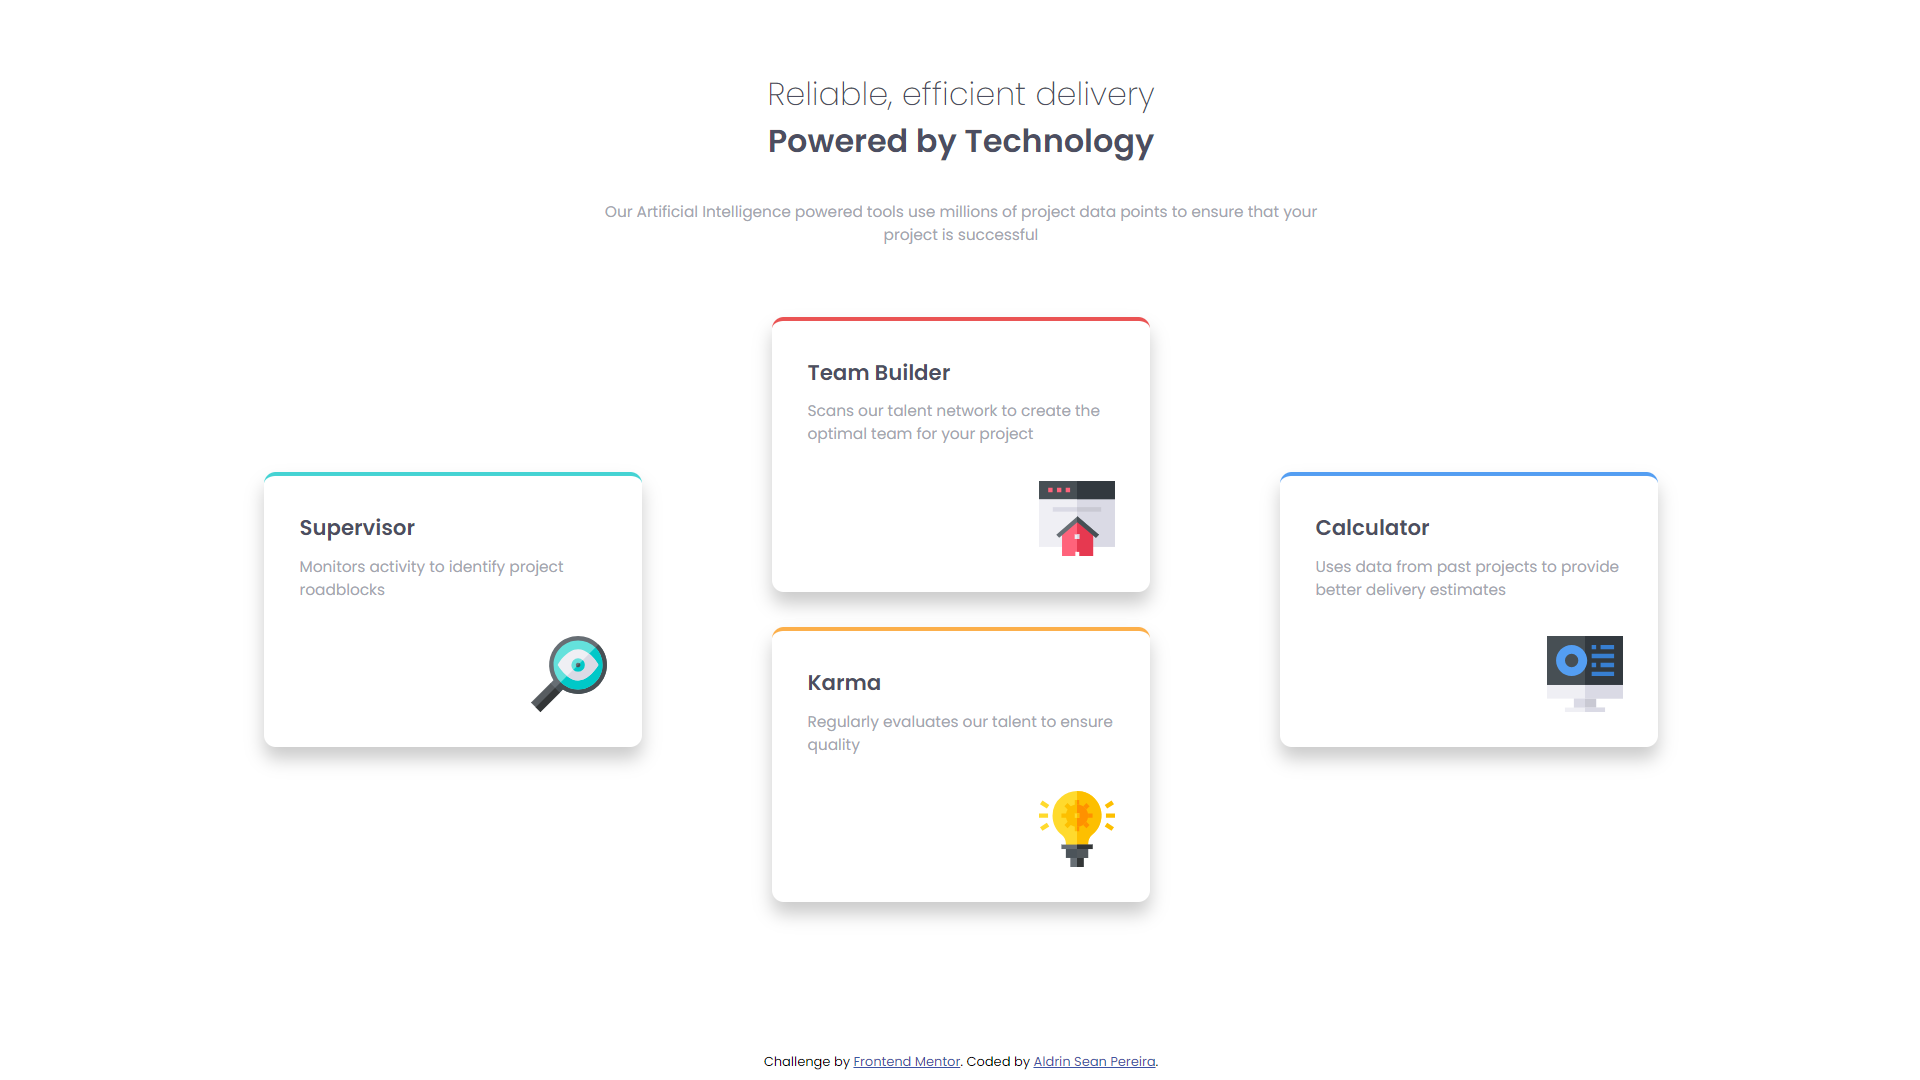
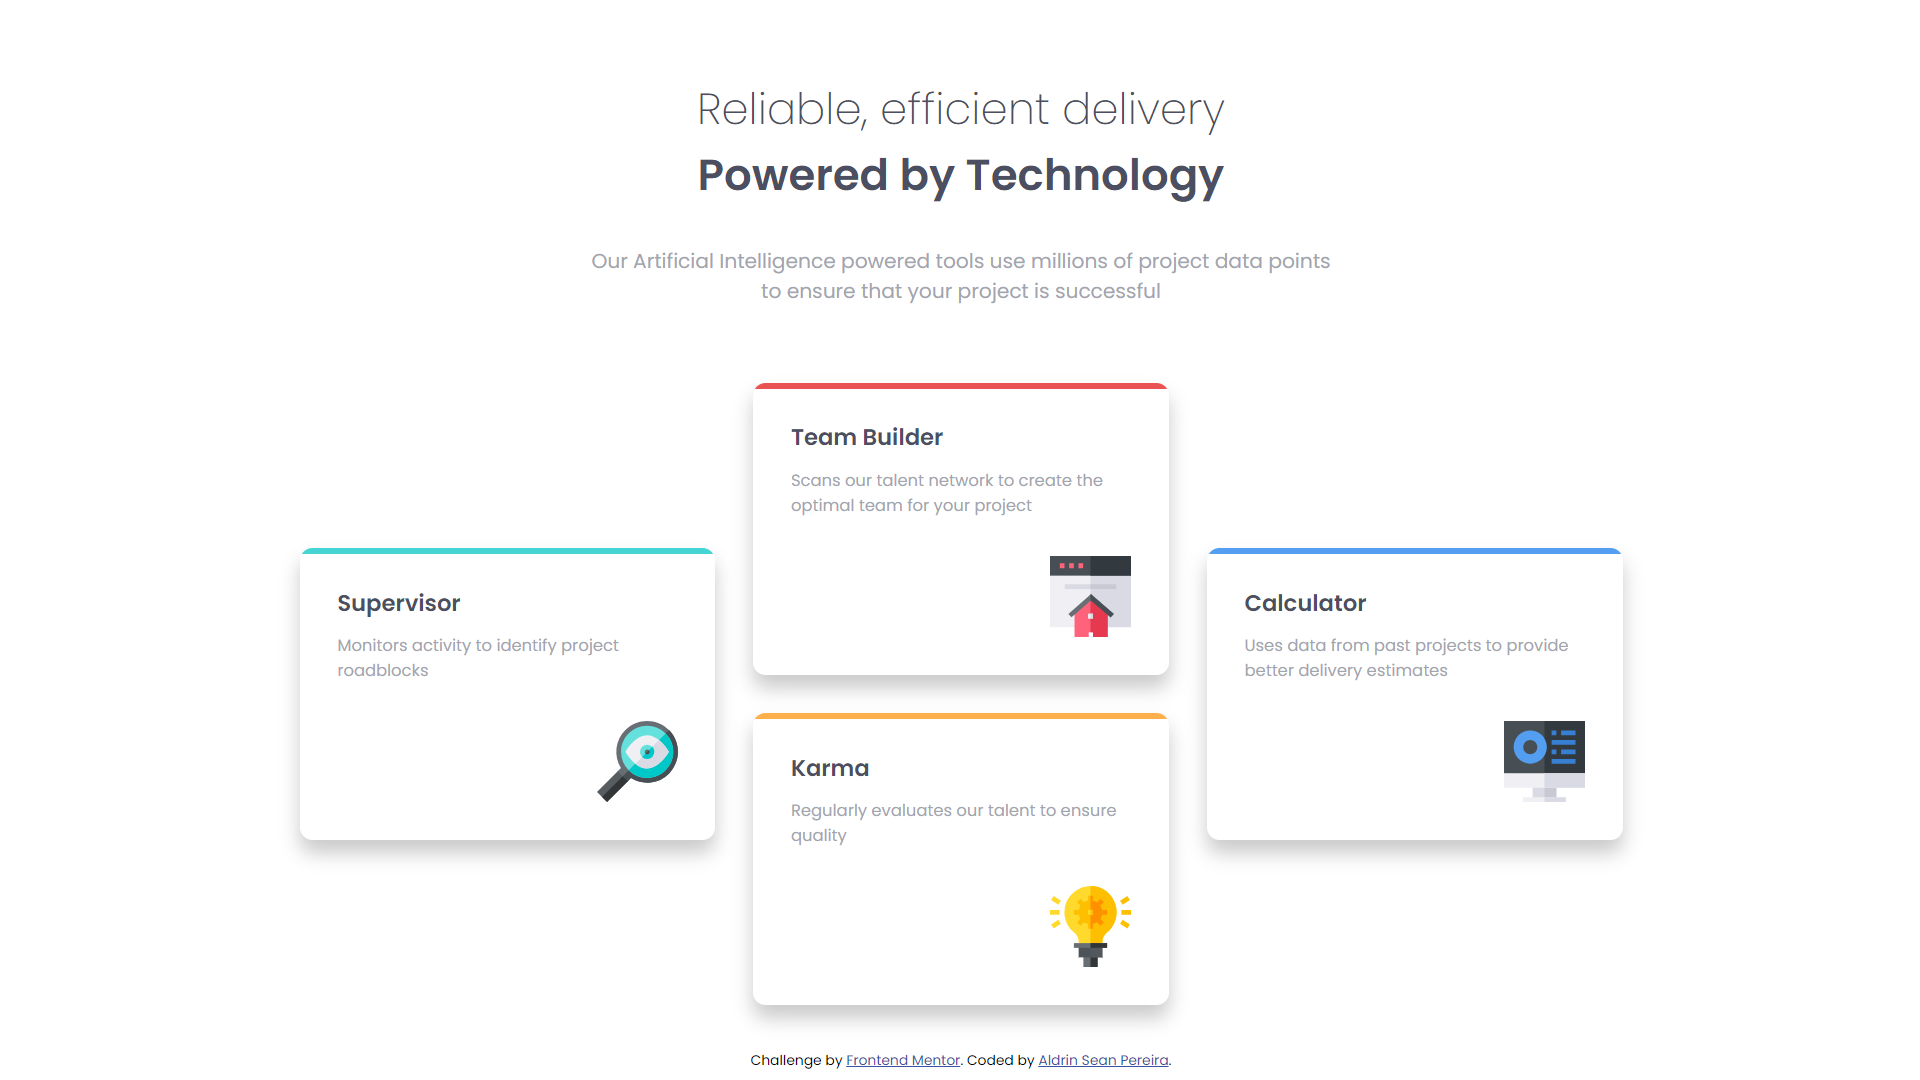
minor update for readme screenshot + CSS

diff --git a/styles.css b/styles.css
@@ -12,7 +12,6 @@
 
     /* spacing */
     --space-10px: calc((10/16) * 1rem);
-    --space-25px: calc((25/16) * 1rem);
     --space-30px: calc((30/16) * 1rem);
     --space-60px: calc((60/16) * 1rem);
 
@@ -21,6 +20,7 @@
     --font-size-13px: calc((13/16) * 1rem);
     --font-size-15px: calc((15/16) * 1rem);
     --font-size-18px: calc((18/16) * 1rem);
+    --font-size-23px: calc((23/16) * 1rem);
 
     /* font-weights */
     --font-weight-200: 200;
@@ -28,7 +28,7 @@
     --font-weight-600: 600;
 
     /* others */
-    --grid-size-max: calc((1000/16) * 1rem);
+    --grid-size-max: calc((1050/16) * 1rem);
     --border-radius: calc((10/16) * 1rem);
     --footer-position: calc((8/16) * 1rem);
 }
@@ -88,7 +88,7 @@ body {
 
 .card-grid {
     max-width: var(--grid-size-max);
-    gap: var(--space-25px);
+    gap: var(--space-30px);
 }
 
 .card-grid__card {
@@ -170,11 +170,12 @@ body {
 @media (min-width: 1200px){
 
     .heading-group {
-        font-size: var(--font-size-18px);
+        font-size: var(--font-size-23px);
     }
+
     .heading-group__paragraph {
         width: 45%;
-        font-size: var(--font-size-15px);
+        font-size: initial;
     }
 
     .card-grid {
